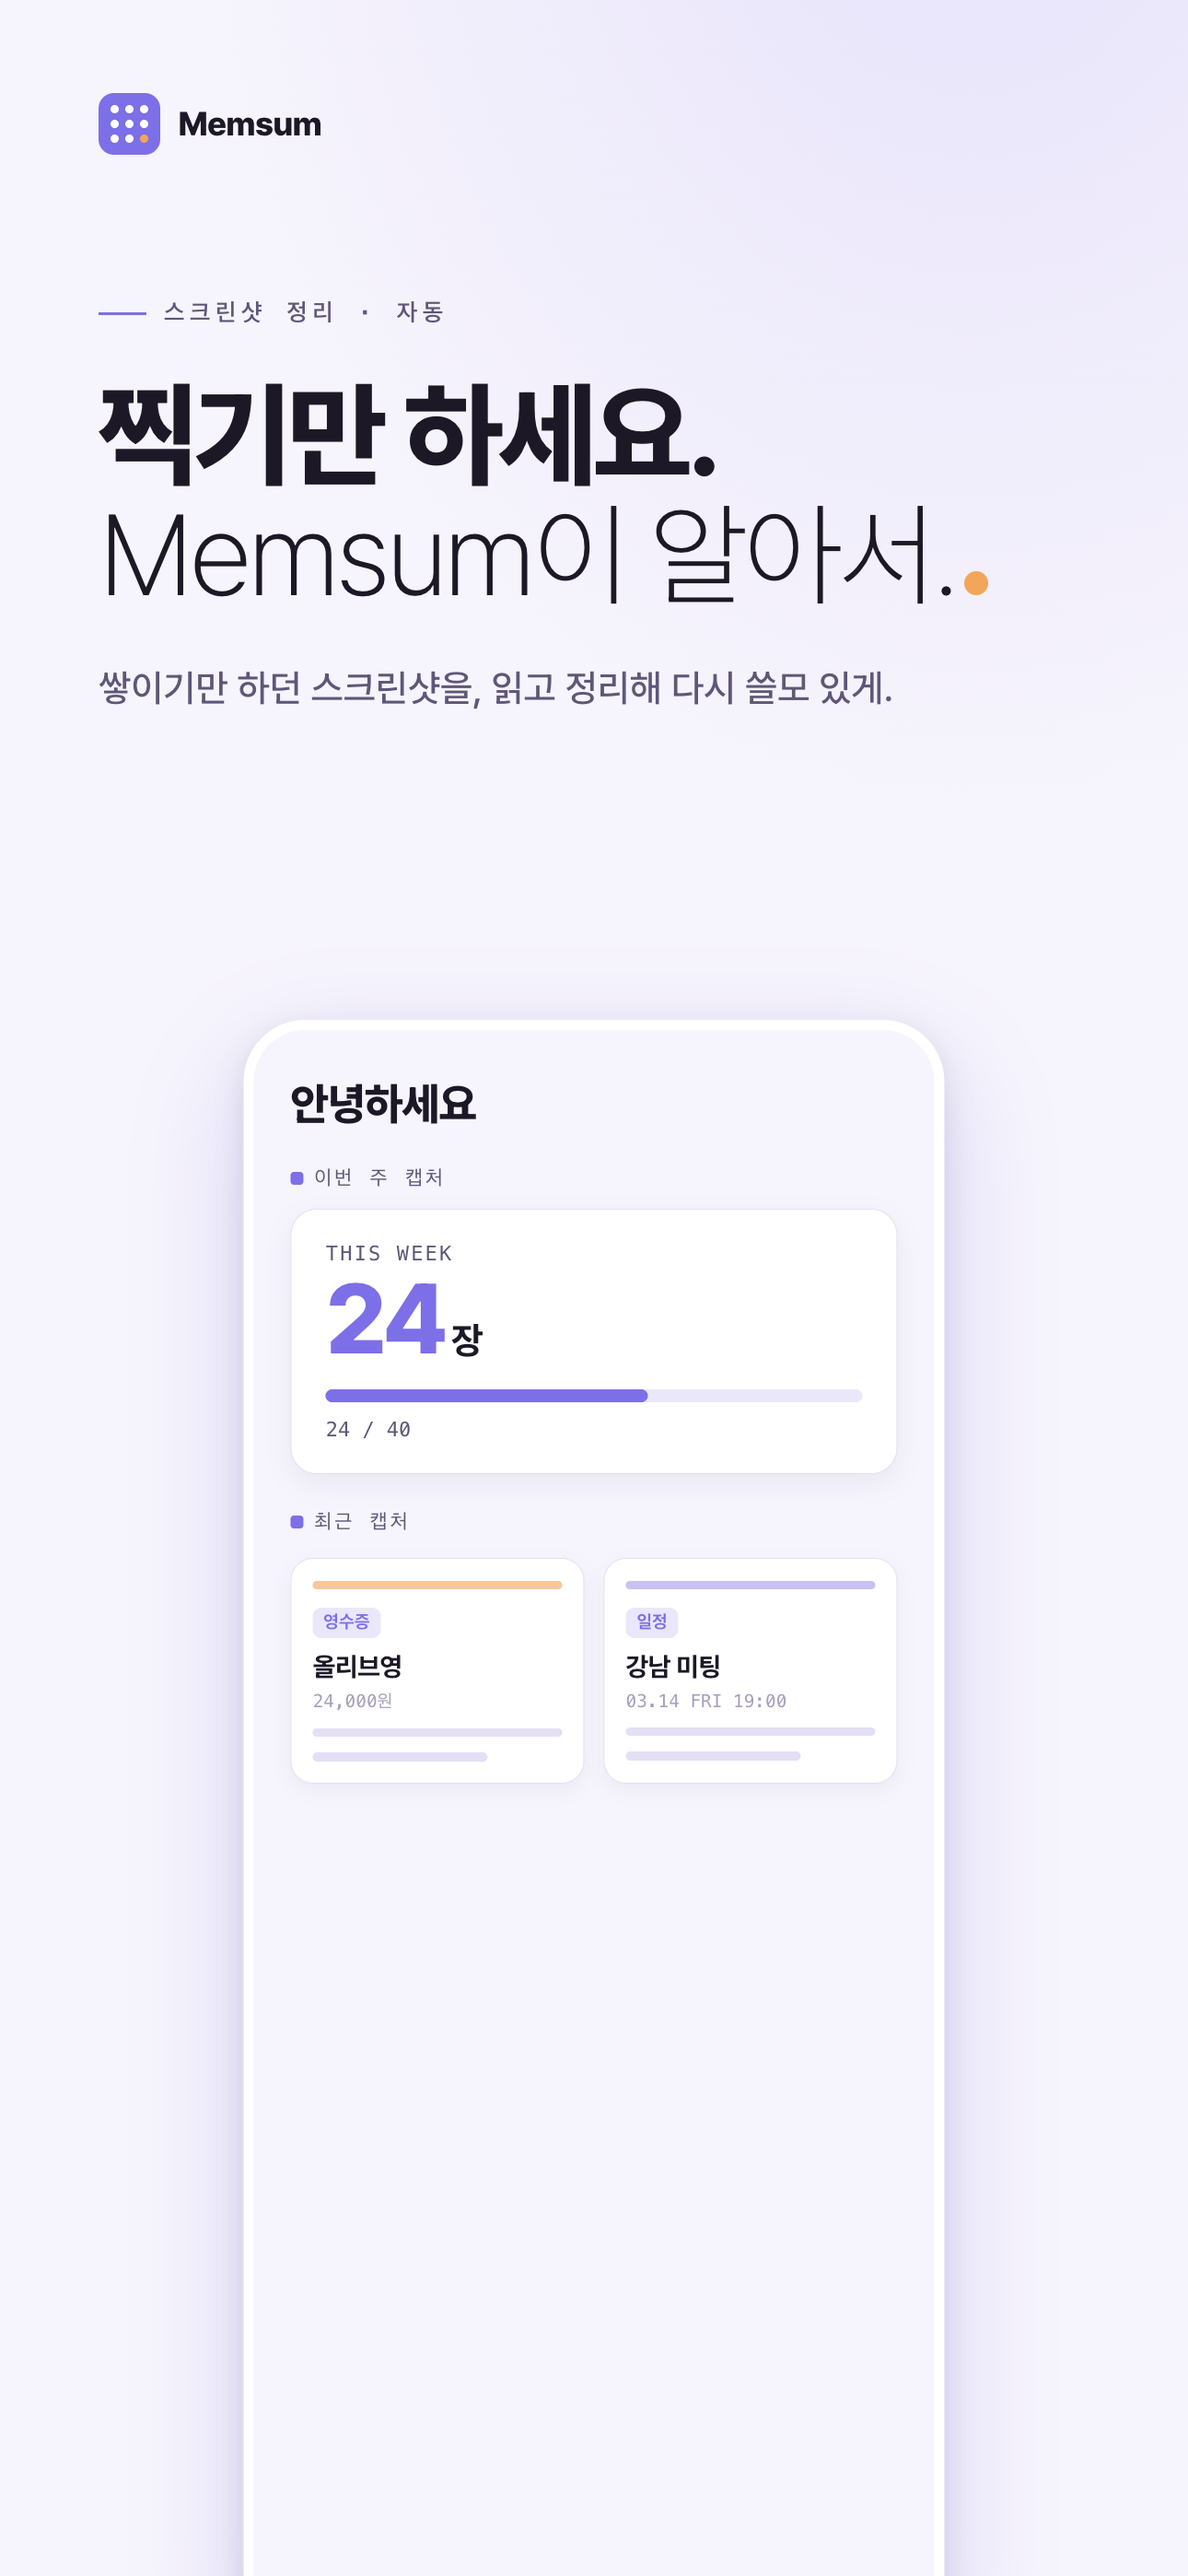
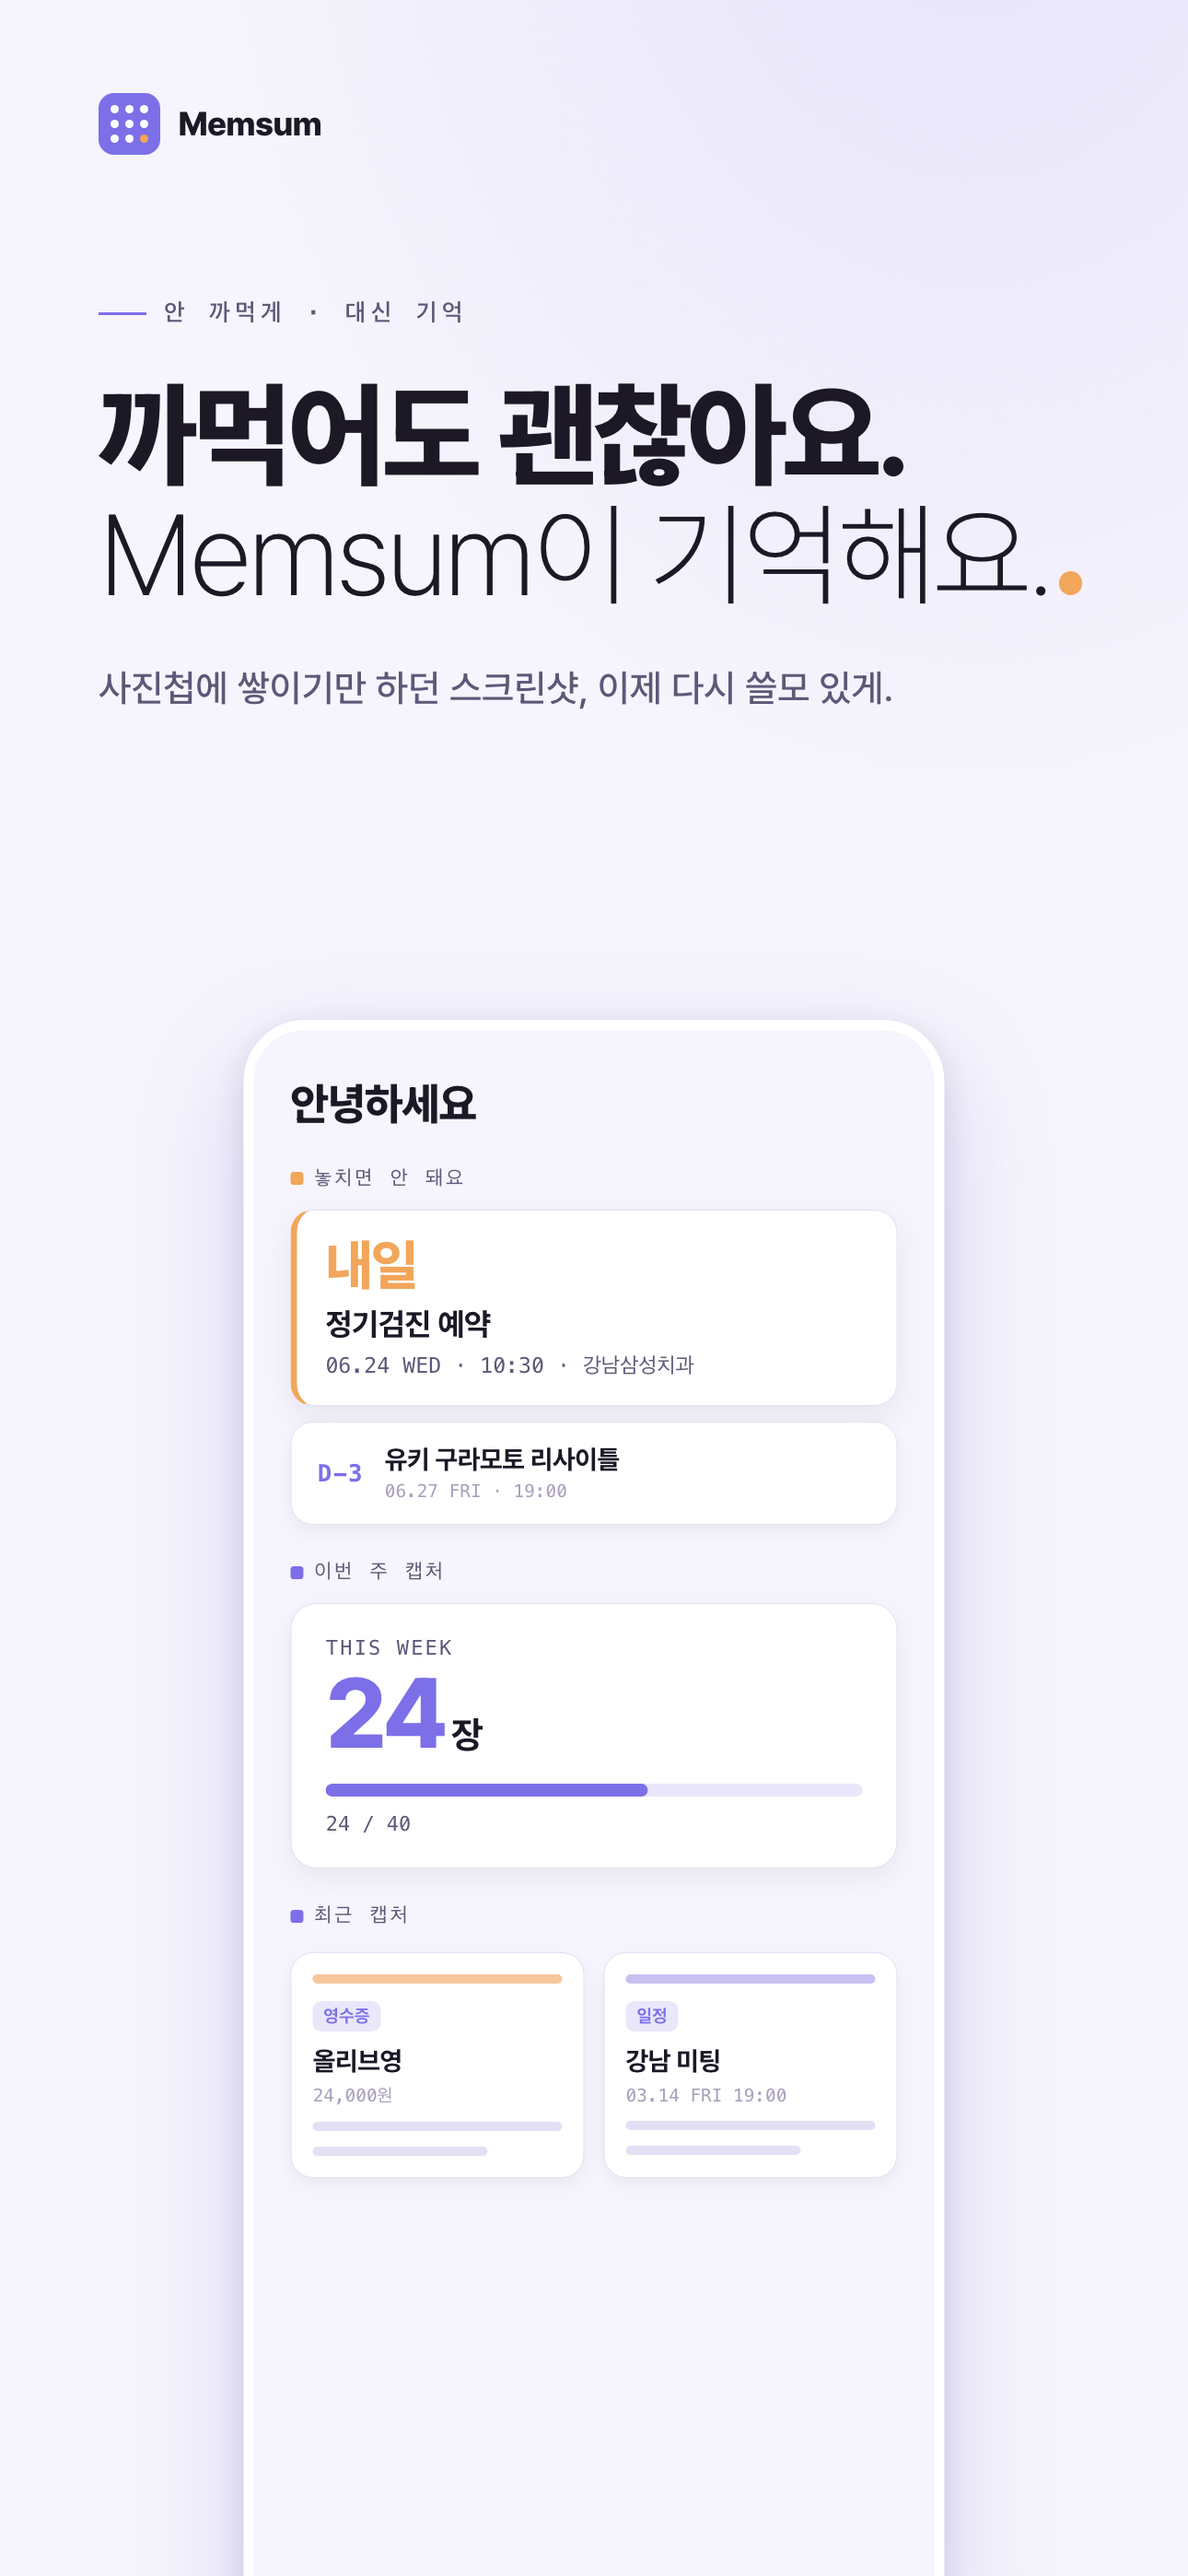
feat(store): 스크린샷·피처 그래픽을 새 포지셔닝·현재 홈으로 재생성
7/13 배치(#1 포지셔닝 전환, #3 홈 재설계) 이후 assets/store가 갱신되지 않아
스토어 이미지가 두 축에서 어긋나 있었다.
- 카피: 폐기된 '정리' 축('찍기만 하세요') → '놓치지 않게' 축('까먹어도 괜찮아요')
- 화면: 현재 홈의 시그니처인 '놓치면 안 돼요'(coral highlight + D-day)가 아예 없었음

변경:
- store.css: 앱 UpcomingSection을 재현한 .up/.up2 클래스 추가(coral 좌 4px + D-day)
- frame1.html: 헤드라인 교체 + 홈 목업을 인사→놓치면 안 돼요→이번 주 캡처→최근 캡처로
- fg.html: 피처 그래픽 카피 교체 + 임박 일정 카드 반영
- gen-store-screenshots.mjs 신규: frame{1..6}·fg를 Play/App Store 규격으로 렌더

frame2~6(OCR·분류·캘린더·리포트·프라이버시)은 카피가 현 기능 SSOT와
일치해 내용 변경 없이 재렌더만 했다.

why 생성기 통합: 피처 그래픽 소스가 fg.html과 gen-feature-graphic.mjs(resvg)로
이원화돼 있어 후자를 돌리면 구버전 디자인으로 조용히 덮어쓴다(이번에 실제로 밟음).
fg 렌더를 이 스크립트로 합치고 주의 주석을 남겼다.

diff --git a/assets/store/templates/fg.html b/assets/store/templates/fg.html
@@ -27,16 +27,28 @@
  .card .n small{font-size:22px;color:var(--ink);}
  .bar{height:8px;background:#EAE7FB;border-radius:99px;margin-top:14px;overflow:hidden;}
  .bar i{display:block;height:100%;width:60%;background:var(--lav);border-radius:99px;}
+ /* 임박 일정 카드 — 앱 UpcomingSection(coral 좌 4px + D-day)을 피처 그래픽 축소본으로. */
+ .up{margin-top:10px;background:#fff;border:1px solid #E4DFF4;border-left:4px solid var(--coral);
+   border-radius:16px;padding:14px 16px;}
+ .up .dd{font-weight:800;font-size:26px;color:var(--coral);line-height:1;letter-spacing:-.03em;}
+ .up .tt{font-weight:700;font-size:16px;margin-top:8px;letter-spacing:-.01em;}
+ .up .mm{font-family:var(--mono);font-size:11px;color:var(--slate);margin-top:5px;}
 </style></head>
 <body><div class="fg">
   <div class="left">
     <div class="logo"><div class="dots"><i></i><i></i><i></i><i></i><i></i><i></i><i></i><i></i><i></i></div><div class="wm">Memsum</div></div>
-    <div class="eyebrow">스크린샷 정리 · 캘린더 자동 · 주간 요약</div>
-    <h1><span class="b">찍기만 하세요.</span> <span class="t">Memsum이 알아서.<span class="dot"></span></span></h1>
-    <div class="sub">쌓이기만 하던 스크린샷을 읽어 정리하고, 일정은 캘린더에, 한 주는 5줄로.</div>
+    <div class="eyebrow">안 까먹게 · 캘린더로 · 일요일 5줄</div>
+    <h1><span class="b">까먹어도 괜찮아요.</span> <span class="t">Memsum이 기억해요.<span class="dot"></span></span></h1>
+    <div class="sub">스크린샷 속 약속을 대신 기억했다가, 놓치기 전에 캘린더와 일요일 5줄로 꺼내드려요.</div>
   </div>
   <div class="phone"><div class="screen">
     <div class="g">안녕하세요</div>
+    <div class="l">놓치면 안 돼요</div>
+    <div class="up">
+      <div class="dd">내일</div>
+      <div class="tt">정기검진 예약</div>
+      <div class="mm">06.24 WED · 10:30</div>
+    </div>
     <div class="l">THIS WEEK</div>
     <div class="card"><div class="n">24<small>장</small></div><div class="bar"><i></i></div></div>
   </div></div>

diff --git a/assets/store/templates/store.css b/assets/store/templates/store.css
@@ -52,6 +52,23 @@ h1 .dot{display:inline-block;width:2vw;height:2vw;border-radius:50%;background:v
   margin-top:3vw;display:flex;align-items:center;gap:.9vw;}
 .s-label b{width:1.1vw;height:1.1vw;background:var(--lav);border-radius:.28vw;display:inline-block;}
 
+/* ── 홈 임박 일정("놓치면 안 돼요") — 앱 UpcomingSection 재현 ──
+   앱과 동일한 위계: 가장 임박 1건은 coral 좌 4px highlight + D-day 강조,
+   나머지는 elevated 간결 행. 홈 최상단(인사 바로 아래)에 온다. */
+.s-label.c b{background:var(--coral);}
+.up{margin-top:1.6vw;background:var(--card);border:.09vw solid var(--line);
+  border-left:.55vw solid var(--coral);border-radius:1.9vw;padding:2.2vw 2.4vw;
+  box-shadow:0 .9vw 2.6vw rgba(28,24,38,.07);}
+.up .dd{font-weight:800;font-size:4.6vw;color:var(--coral);line-height:1;letter-spacing:-.03em;}
+.up .tt{font-weight:700;font-size:2.6vw;margin-top:1.2vw;letter-spacing:-.01em;}
+.up .mm{font-family:var(--mono);font-size:1.8vw;color:var(--slate);margin-top:.8vw;}
+.up2{display:flex;align-items:center;gap:1.8vw;background:var(--card);border:.09vw solid var(--line);
+  border-radius:1.9vw;padding:1.8vw 2.2vw;margin-top:1.3vw;box-shadow:0 .55vw 1.6vw rgba(28,24,38,.05);}
+.up2 .dd{font-family:var(--mono);font-weight:700;font-size:2vw;color:var(--lav);flex-shrink:0;letter-spacing:.04em;}
+.up2 .bd{flex:1;}
+.up2 .tt{font-weight:700;font-size:2.2vw;letter-spacing:-.01em;}
+.up2 .mm{font-family:var(--mono);font-size:1.5vw;color:var(--mist);margin-top:.5vw;}
+
 /* 통계 카드 */
 .stat{margin-top:1.5vw;background:var(--card);border:.09vw solid var(--line);border-radius:2.2vw;
   padding:2.7vw 2.9vw;box-shadow:0 .8vw 2.2vw rgba(28,24,38,.06);}

diff --git a/assets/store/templates/frame1.html b/assets/store/templates/frame1.html
@@ -1,11 +1,24 @@
 <!doctype html><html lang="ko"><head><meta charset="utf-8"><link rel="stylesheet" href="store.css"></head>
 <body><div class="frame">
   <div class="logo"><div class="dots"><i></i><i></i><i></i><i></i><i></i><i></i><i></i><i></i><i></i></div><div class="wordmark">Memsum</div></div>
-  <div class="eyebrow"><span class="rule"></span><span>스크린샷 정리 · 자동</span></div>
-  <h1><span class="b">찍기만 하세요.</span><span class="t">Memsum이 알아서.<span class="dot"></span></span></h1>
-  <p class="sub">쌓이기만 하던 스크린샷을, 읽고 정리해 다시 쓸모 있게.</p>
+  <div class="eyebrow"><span class="rule"></span><span>안 까먹게 · 대신 기억</span></div>
+  <h1><span class="b">까먹어도 괜찮아요.</span><span class="t">Memsum이 기억해요.<span class="dot"></span></span></h1>
+  <p class="sub">사진첩에 쌓이기만 하던 스크린샷, 이제 다시 쓸모 있게.</p>
   <div class="phone"><div class="screen">
     <div class="s-greet">안녕하세요</div>
+    <div class="s-label c"><b></b>놓치면 안 돼요</div>
+    <div class="up">
+      <div class="dd">내일</div>
+      <div class="tt">정기검진 예약</div>
+      <div class="mm">06.24 WED · 10:30 · 강남삼성치과</div>
+    </div>
+    <div class="up2">
+      <div class="dd">D-3</div>
+      <div class="bd">
+        <div class="tt">유키 구라모토 리사이틀</div>
+        <div class="mm">06.27 FRI · 19:00</div>
+      </div>
+    </div>
     <div class="s-label"><b></b>이번 주 캡처</div>
     <div class="stat">
       <div class="cap">THIS WEEK</div>
